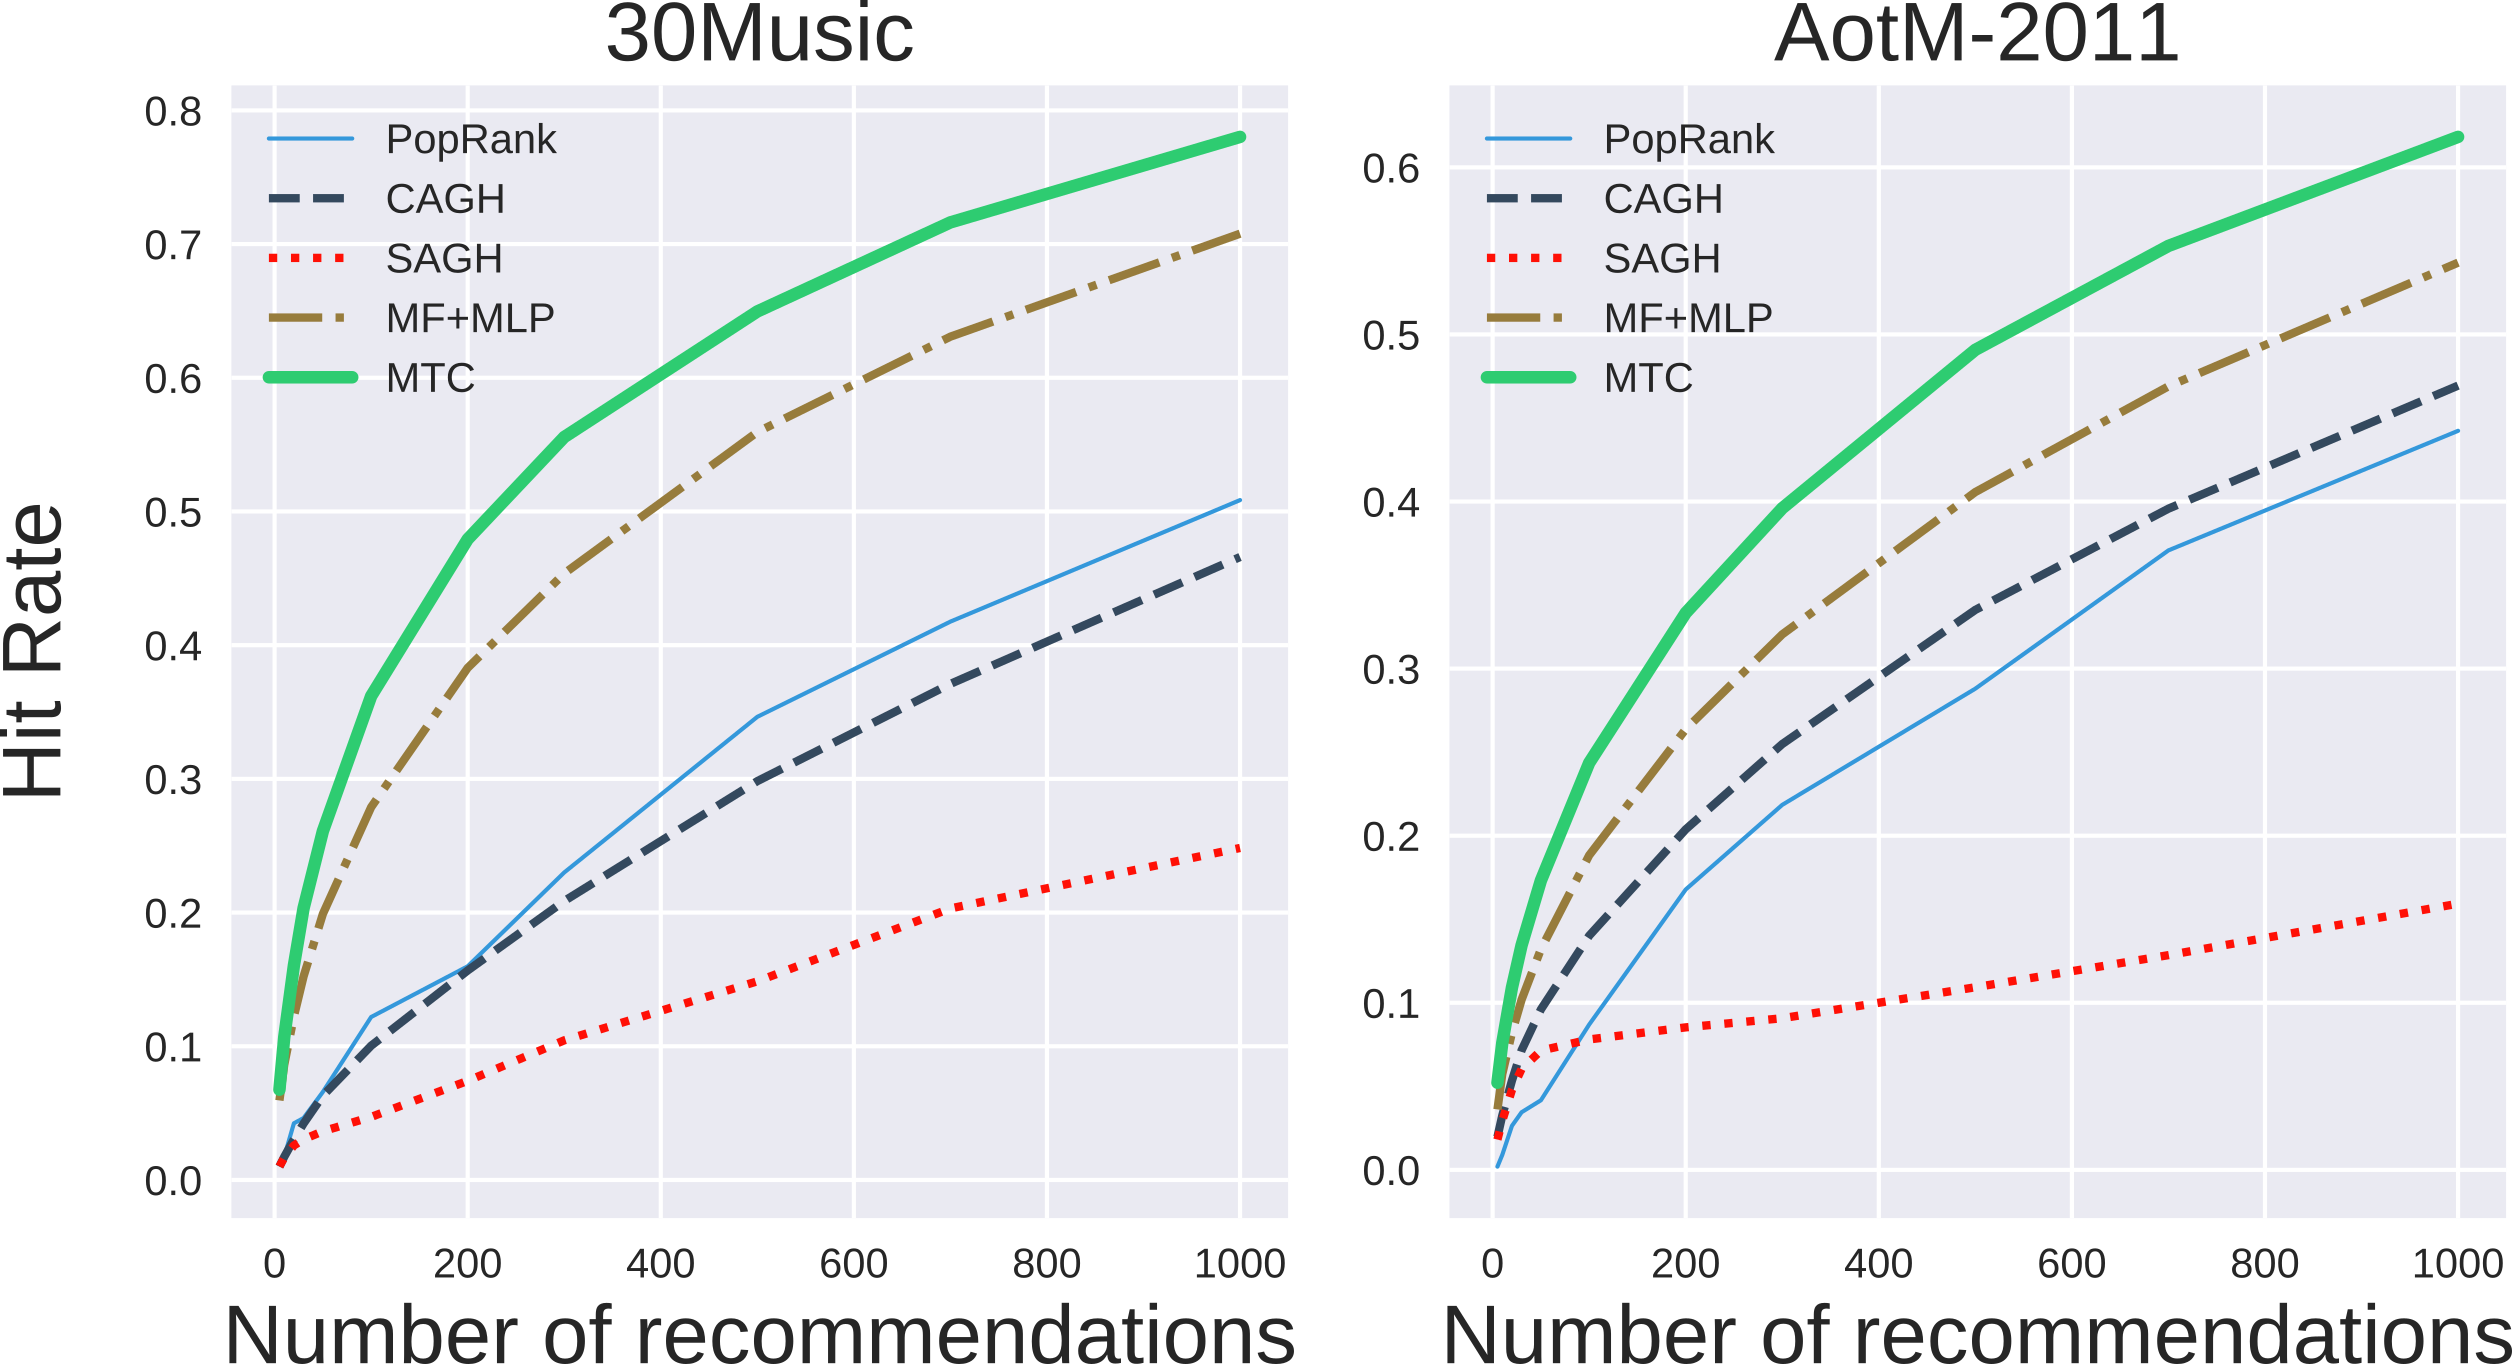
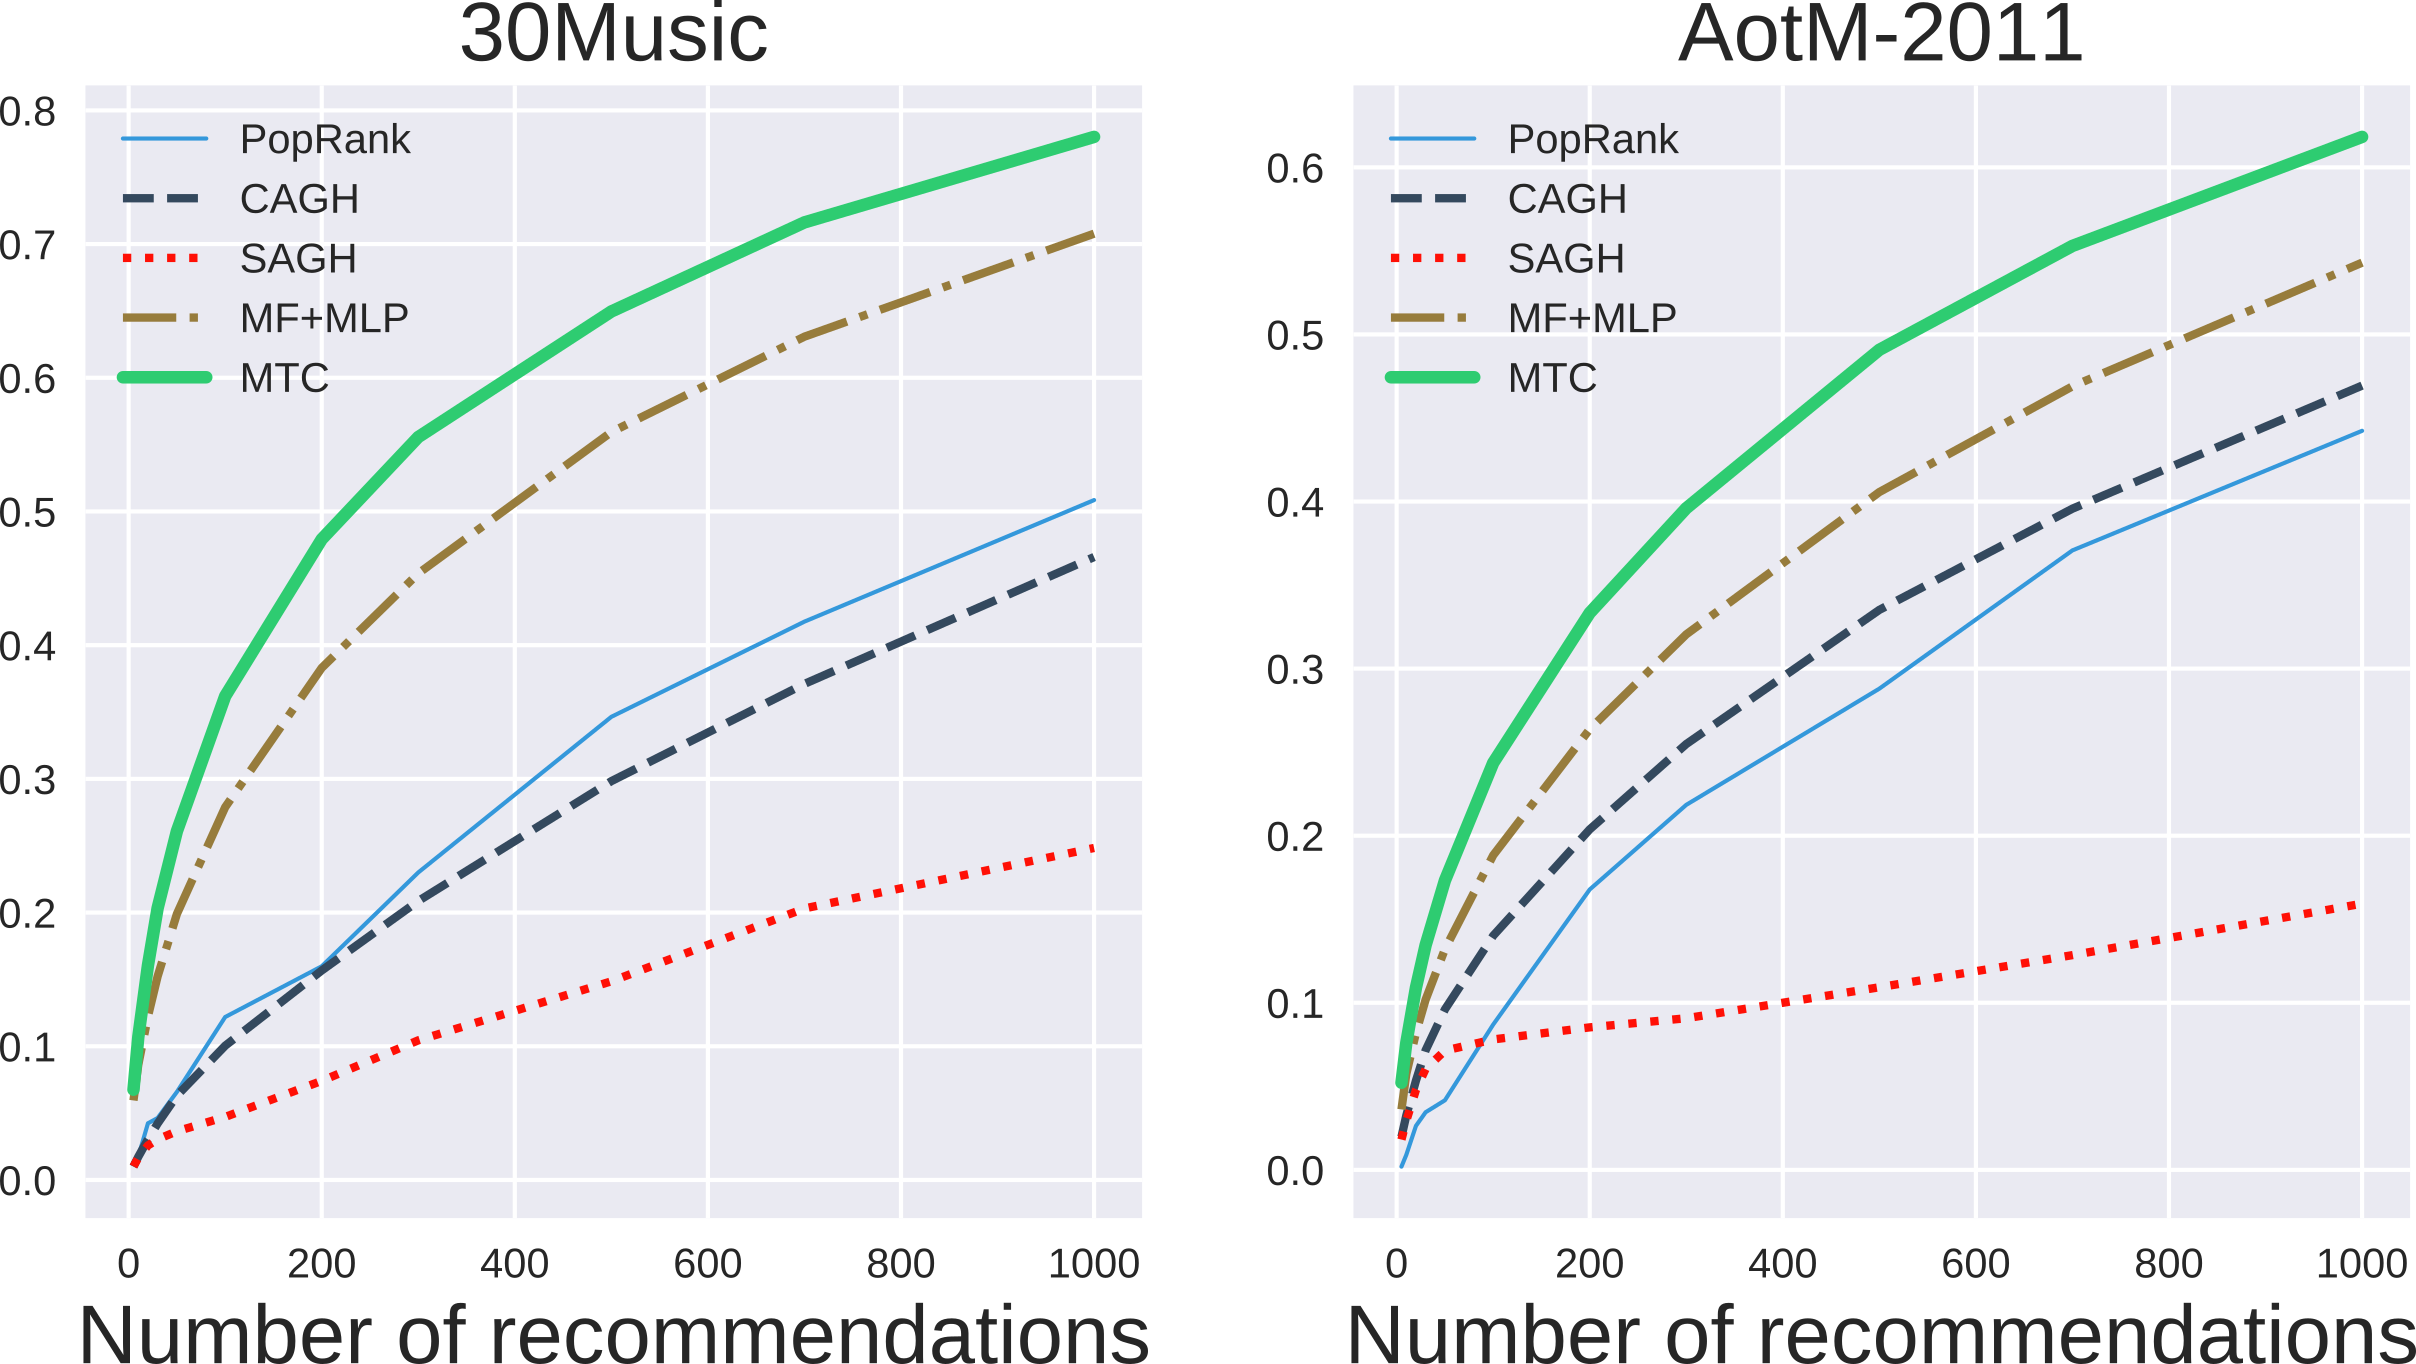
adjust story order

diff --git a/dchen/music/paper/tab_auc.tex b/dchen/music/paper/tab_auc.tex
@@ -5,16 +5,16 @@
 \setlength\tabcolsep{2pt}
 \begin{tabular}{lcccclcccclcccc}
 \toprule 
-\multicolumn{3}{c}{Cold Users} &&& \multicolumn{3}{c}{Cold Playlists} &&& \multicolumn{3}{c}{Cold Songs} \\ 
+\multicolumn{3}{c}{Cold Playlists} &&& \multicolumn{3}{c}{Cold Users} &&& \multicolumn{3}{c}{Cold Songs} \\ 
 \cmidrule{1-3} \cmidrule{6-8} \cmidrule{11-13}
 Method & 30Music & AotM-2011 &&& Method & 30Music & AotM-2011 &&& Method & 30Music & AotM-2011 \\ 
 \cmidrule{1-3} \cmidrule{6-8} \cmidrule{11-13}
 %\midrule
-PopRank &    88.3    & {\bf 91.8}   &&&  PopRank &  94.0      &    93.8    &&&  PopRank &   70.9     &     76.5  \\
-CAGH    &    86.3    &    88.1      &&&  CAGH    &  94.8      &    94.2    &&&  CAGH    &   68.0     &     77.4  \\
-SAGH    &    54.5    &    53.7      &&&  SAGH    &  64.5      &    79.8    &&&  SAGH    &   51.5     &     53.6  \\
-WMF+kNN &    85.1    & {\small N/A} &&&  WMF     &  79.5      &    85.4    &&&  MF+MLP  &   81.4     &     80.8  \\
-MTC     & {\bf 88.6} & {\bf 91.8}   &&&  MTC     & {\bf 95.9} & {\bf 95.4} &&&  MTC     & {\bf 86.6} & {\bf 84.3}\\
+PopRank &  94.0      &    93.8    &&& PopRank &    88.3    & {\bf 91.8}   &&&  PopRank &   70.9     &     76.5  \\
+CAGH    &  94.8      &    94.2    &&& CAGH    &    86.3    &    88.1      &&&  CAGH    &   68.0     &     77.4  \\
+SAGH    &  64.5      &    79.8    &&& SAGH    &    54.5    &    53.7      &&&  SAGH    &   51.5     &     53.6  \\
+WMF     &  79.5      &    85.4    &&& WMF+kNN &    85.1    & {\small N/A} &&&  MF+MLP  &   81.4     &     80.8  \\
+MTC     & {\bf 95.9} & {\bf 95.4} &&& MTC     & {\bf 89.6} & {\bf 91.8}   &&&  MTC     & {\bf 86.6} & {\bf 84.3}\\
 \bottomrule
 \end{tabular}
 }

diff --git a/dchen/music/paper/tab_stats.tex b/dchen/music/paper/tab_stats.tex
@@ -1,22 +1,6 @@
 \begin{table*}[!t]
-    \centering
-    \begin{minipage}{.35\textwidth}
-        \centering
-        \caption{Dataset for \emph{cold users}}
-        \label{tab:stats2}
-        \resizebox{.9\textwidth}{!}{
-        \begin{tabular}{lrrcrr}
-        \toprule
-        \multirow{2}{*}{Dataset}  & \multicolumn{2}{c}{Playlists} && \multicolumn{2}{c}{Users} \\ \cmidrule{2-3} \cmidrule{5-6}
-                                  & Train & Test && Train & Test \\
-        \midrule
-        30Music   & 14,067 & 3,390 && 5,649 & 2,421 \\
-        AotM-2011 & 76,450 & 8,260 && 9,928 & 4,254 \\
-        \bottomrule
-        \end{tabular}
-        }
-    \end{minipage}%
-    \begin{minipage}{0.33\textwidth}
+   \centering
+   \begin{minipage}{0.33\textwidth}
         \centering
         \caption{Dataset for \emph{cold playlists}}
         \label{tab:stats1}
@@ -28,6 +12,22 @@
         \midrule
         30Music   & 15,262 & 2,195 &&  8,070 & 1,644 \\
         AotM-2011 & 75,477 & 9,233 && 14,182 & 2,722 \\
+        \bottomrule
+        \end{tabular}
+        }
+    \end{minipage}%
+    \begin{minipage}{.35\textwidth}
+        \centering
+        \caption{Dataset for \emph{cold users}}
+        \label{tab:stats2}
+        \resizebox{.9\textwidth}{!}{
+        \begin{tabular}{lrrcrr}
+        \toprule
+        \multirow{2}{*}{Dataset}  & \multicolumn{2}{c}{Playlists} && \multicolumn{2}{c}{Users} \\ \cmidrule{2-3} \cmidrule{5-6}
+                                  & Train & Test && Train & Test \\
+        \midrule
+        30Music   & 14,067 & 3,390 && 5,649 & 2,420 \\
+        AotM-2011 & 76,450 & 8,260 && 9,928 & 4,254 \\
         \bottomrule
         \end{tabular}
         }

diff --git a/dchen/music/paper/tab_spread.tex b/dchen/music/paper/tab_spread.tex
@@ -5,16 +5,16 @@
 \setlength\tabcolsep{2pt}
 \begin{tabular}{lcccclcccclcccc}
 \toprule 
-\multicolumn{3}{c}{Cold Users} &&& \multicolumn{3}{c}{Cold Playlists} &&& \multicolumn{3}{c}{Cold Songs} \\ 
+\multicolumn{3}{c}{Cold Playlists} &&& \multicolumn{3}{c}{Cold Users} &&& \multicolumn{3}{c}{Cold Songs} \\ 
 \cmidrule{1-3} \cmidrule{6-8} \cmidrule{11-13}
 Method & 30Music & AotM-2011 &&& Method & 30Music & AotM-2011 &&& Method & 30Music & AotM-2011 \\ 
 \cmidrule{1-3} \cmidrule{6-8} \cmidrule{11-13}
 %\midrule
-PopRank &     9.8 &    10.5      &&&  PopRank &     9.8 &      10.5 &&&  PopRank &     7.4 &       7.8 \\
-CAGH    &     4.2 &     5.3      &&&  CAGH    &     5.8 &       2.3 &&&  CAGH    &     4.3 &       4.6 \\
-SAGH    &    10.0 &    10.7      &&&  SAGH    &    10.3 &      10.4 &&&  SAGH    &     6.5 &       5.9 \\
-WMF+kNN &    10.7 & {\small N/A} &&&  WMF     &    10.7 &      11.6 &&&  MF+MLP  &     8.5 &       9.2 \\
-MTC     &     9.9 &    11.4      &&&  MTC     &     9.4 &      10.4 &&&  MTC     &     7.9 &       8.3 \\
+PopRank &     9.8 &      10.5 &&&  PopRank &     9.8 &    10.5      &&&  PopRank &     7.4 &       7.8 \\
+CAGH    &     5.8 &       2.3 &&&  CAGH    &     4.2 &     5.3      &&&  CAGH    &     4.3 &       4.6 \\
+SAGH    &    10.3 &      10.4 &&&  SAGH    &    10.0 &    10.7      &&&  SAGH    &     6.5 &       5.9 \\
+WMF     &    10.7 &      11.6 &&&  WMF+kNN &    10.7 & {\small N/A} &&&  MF+MLP  &     8.5 &       9.2 \\
+MTC     &     9.4 &      10.4 &&&  MTC     &     9.9 &    11.4      &&&  MTC     &     7.9 &       8.3 \\
 \bottomrule
 \end{tabular}
 }

diff --git a/dchen/music/paper/fig_nov.tex b/dchen/music/paper/fig_nov.tex
@@ -1,17 +1,17 @@
 \begin{figure*}[!t]
     \centering
-    \begin{minipage}{.32\textwidth}
-        \centering
-        \includegraphics[width=.96\linewidth]{fig/nov4.png}
-        \caption{Novelty for {\it cold users}}
-        \label{fig:nov4}
-    \end{minipage}\hspace{11pt}%
     \begin{minipage}{0.32\textwidth}
         \centering
         \includegraphics[width=.96\linewidth]{fig/nov3.png}
         \caption{Novelty for {\it cold playlists}}
         \label{fig:nov3}
     \end{minipage}\hspace{8pt}%
+    \begin{minipage}{.32\textwidth}
+        \centering
+        \includegraphics[width=.96\linewidth]{fig/nov4.png}
+        \caption{Novelty for {\it cold users}}
+        \label{fig:nov4}
+    \end{minipage}\hspace{11pt}%
     \begin{minipage}{0.32\textwidth}
         \centering
         \includegraphics[width=\linewidth]{fig/nov1.png}

diff --git a/dchen/music/paper/fig_hr.tex b/dchen/music/paper/fig_hr.tex
@@ -1,17 +1,17 @@
 \begin{figure*}[!t]
     \centering
-    \begin{minipage}{.32\textwidth}
-        \centering
-        \includegraphics[width=.96\linewidth]{fig/hr4.png}
-        \caption{Hit rates for {\it cold users}}
-        \label{fig:hr4}
-    \end{minipage}\hspace{11pt}%
     \begin{minipage}{0.32\textwidth}
         \centering
         \includegraphics[width=.96\linewidth]{fig/hr3.png}
         \caption{Hit rates for {\it cold playlists}}
         \label{fig:hr3}
     \end{minipage}\hspace{8pt}%
+    \begin{minipage}{.32\textwidth}
+        \centering
+        \includegraphics[width=.96\linewidth]{fig/hr4.png}
+        \caption{Hit rates for {\it cold users}}
+        \label{fig:hr4}
+    \end{minipage}\hspace{11pt}%
     \begin{minipage}{0.32\textwidth}
         \centering
         \includegraphics[width=\linewidth]{fig/hr1.png}
